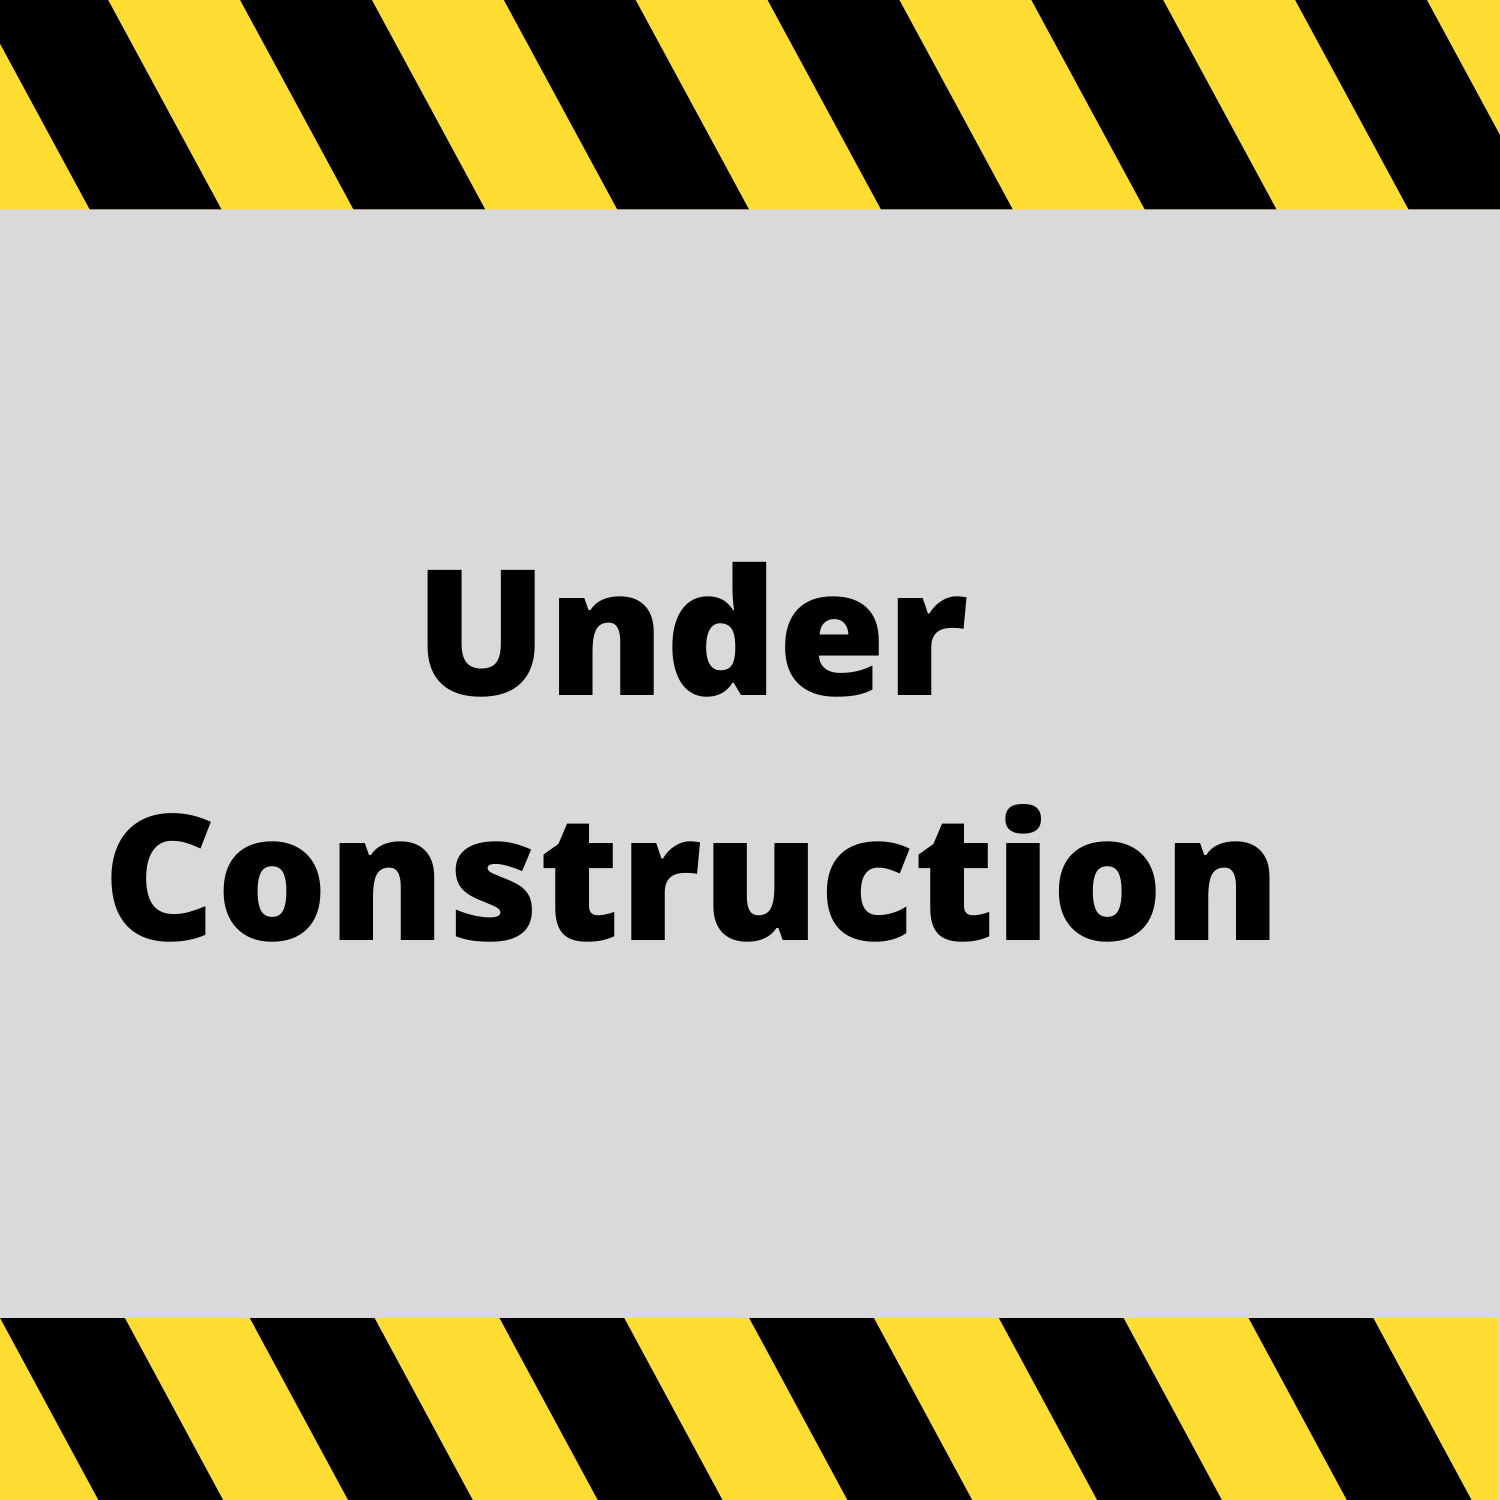
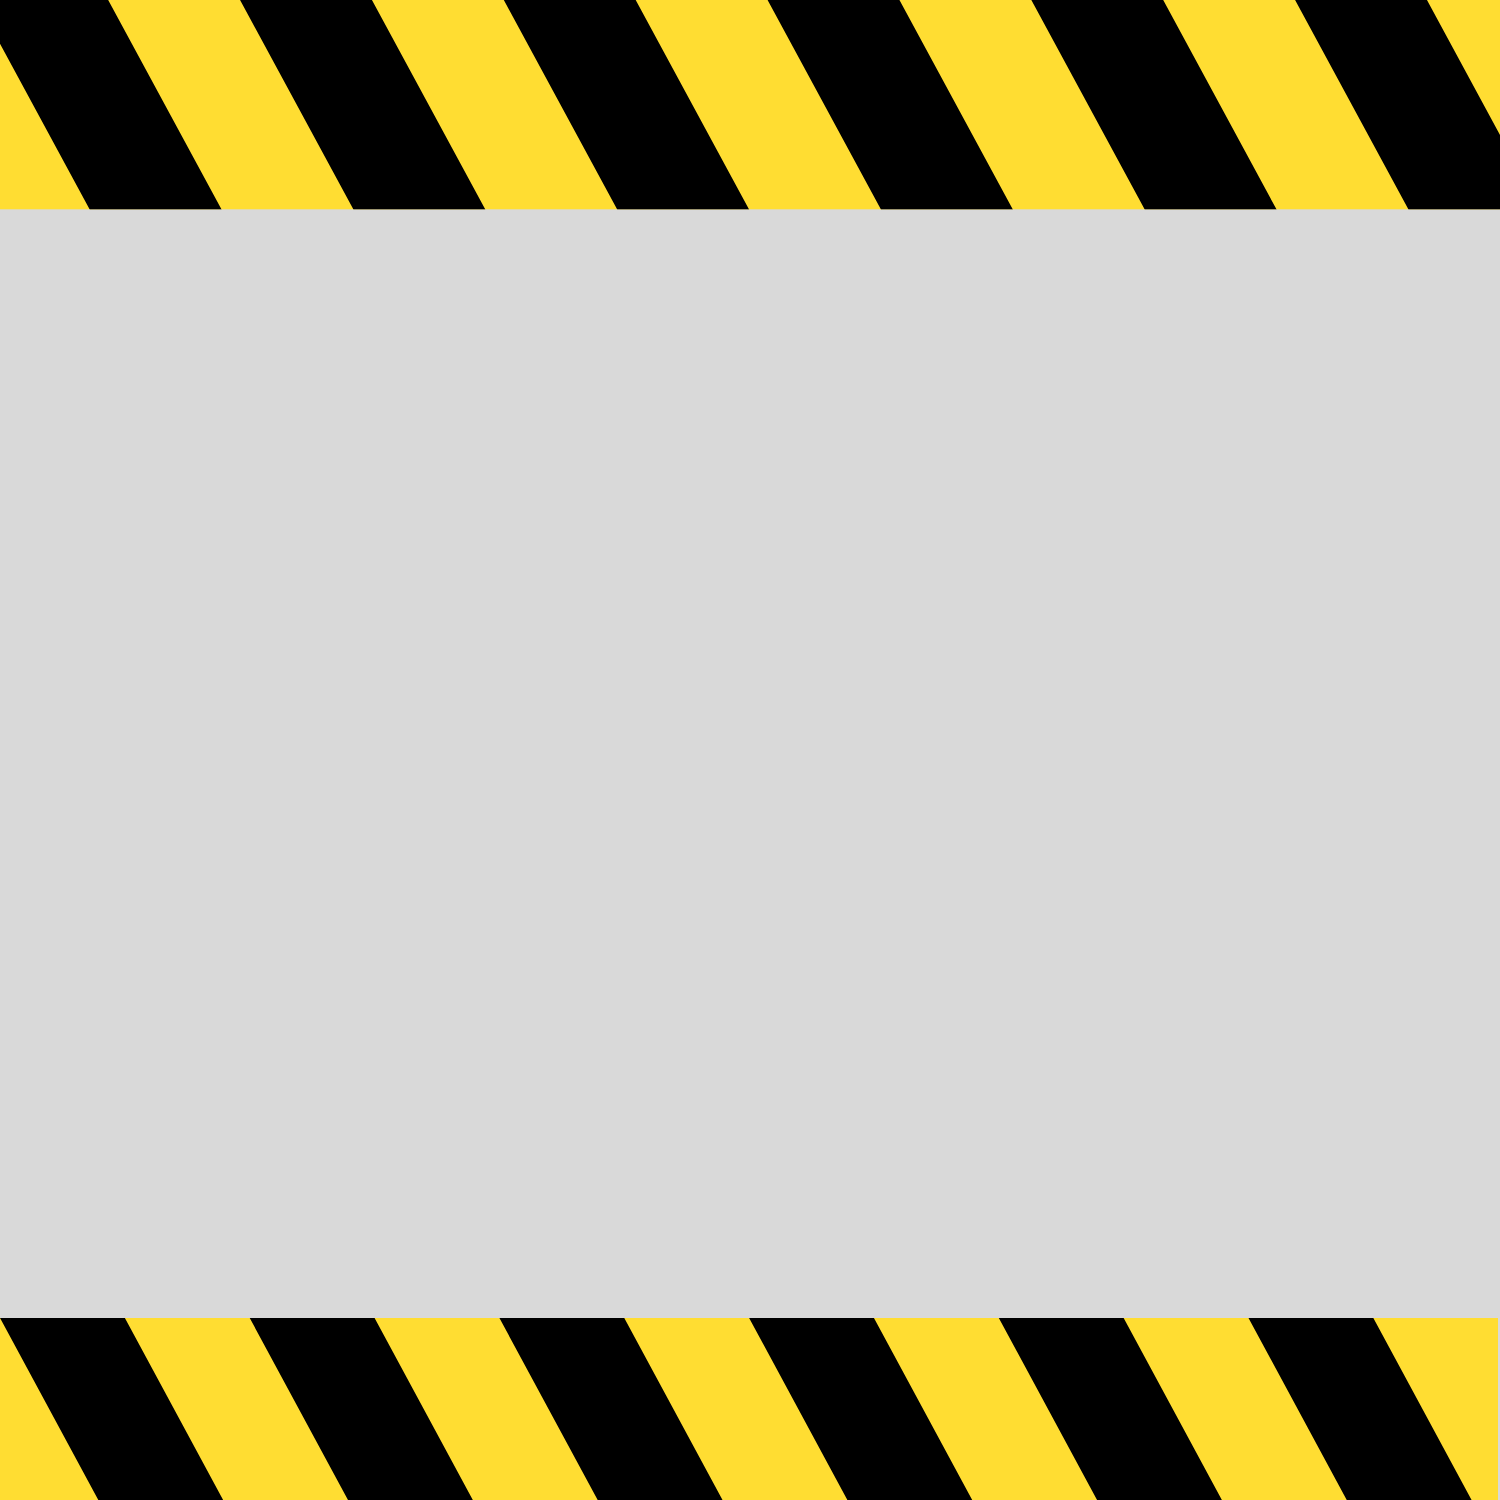
overhaul of work section, finishing touches on styles

Changed region(s): [[0.0613, 0.5213, 0.8587, 0.644], [0.276, 0.368, 0.644, 0.4907]]

diff --git a/assets/css/style.css b/assets/css/style.css
@@ -23,7 +23,7 @@ body {
     padding-bottom: 15px;
     text-align: center;
     margin: 15px auto;
-    width: 80%;
+    width: 70%;
   }
 
 
@@ -94,10 +94,10 @@ header nav ul {
     border-radius: 50%;
     margin: 25px;
     align-self: center;
-    max-width: 200px;
+    max-width: 250px;
     height: auto;
-    flex-shrink: 5;
     border: 5px inset var(--tertiary-color);
+    justify-content: center;
 }
 
 .about-text {
@@ -109,52 +109,83 @@ header nav ul {
 /* About Me end */
 
 /* Work start */
-
-#work img {
-    opacity: 60%;
+.work {
+    display: flex;
+    flex-wrap: wrap;
+    justify-content: space-around;
+    align-content: center;
 }
 
-#work img:hover {
-    opacity:100%;
-    box-shadow: 0 0 10px var(--glow-color);
+.work h3 {
+    z-index: 999;
+    color:var(--tertiary-color);
+    width: 35%;
+    font-size: 16px;
+    padding-top: 5px;
+    text-shadow: 2px 1px 2px var(--primary-color);
+    margin-top: 100px;
 }
 
-.main-app {
-    border-radius: 15px;
-    align-self: center;
-    max-width: 80%;
+.work h4 {
+    color: var(--tertiary-color);
+    width: 35%;
+    font-size: 10px;
+    padding-bottom: 5px;
+    margin-bottom: 75px;
+}
+
+
+.link {
+    z-index: 1;
+    text-decoration: none;
+}
+
+.preview {
+    background-size: cover;
+    background-position: top;
+    justify-content: center;
+    flex-wrap: wrap;
+    align-items: center;
+    margin: 1.5% auto;
     height: auto;
-    display: block;
-    margin: 15px auto;
+    border: 3px solid var(--secondary-color);
+    box-shadow: 0 0 10px rgba(0, 0, 0, 0.5);
+    opacity: 70%;
+}
+
+.preview:hover {
+    box-shadow: 0 0 10px var(--glow-color);
+    opacity: 100%;
+}
+
+.banner {
+    width: 35%;;
 }
 
 .secondary-apps {
-    /*
     display: flex;
-    align-content: space-between;
-    justify-content: center;
+    flex-direction: column;
+    width: 100%
+}
+
+
+#run-buddy {
+    background-image: url(../images/run-buddy.png);
     width: 80%;
-    */
-    width: 85%;
-    margin: 0 auto;
-    display: flex;
-    flex-wrap: wrap;
-    justify-content: space-between;
+    height: 300px;;
 }
 
-.secondary-app {
-    margin: 20px;
-    background: var(--secondary-color);
-    color: var(--primary-color);
-    flex: 1;
+#horiseon{
+    background-image: url(../images/horiseon.jpeg);
+    width: 80%;
+    height: 200px;
 }
 
-.secondary-app img {
-    width: 100%;
-    border-radius:15px;
+#robot-gladiators {
+    background-image: url(../images/under-construction.png);
+    width: 80%;
+    height: 200px;
 }
-
-
 /* Work end */
 
 /* Contact Me start */
@@ -165,15 +196,18 @@ header nav ul {
     width: 100%;
     text-align: left;
     align-items: center;
+    border-top: 2px solid var(--tertiary-color);
 }
 
 #contact h2 {
     border-bottom: 0px;
-    border-right: 3px solid var(--tertiary-color);
+    border-right: 3px outset var(--tertiary-color);
     flex: 3;
-    height:auto;
+    height: auto;
     text-align: right;
     padding-right: 10px;
+    padding-top: 10px;
+    margin: 0;
 }
 
 .contact-info {
@@ -183,7 +217,13 @@ header nav ul {
 
 /* Contact Me end */
 
-@media screen and (min-width: 768px) {
+.flex-row {
+    display: flex;
+}
+
+
+
+@media screen and (min-width: 800px) {
 header {
     position: -webkit-sticky;
     position: sticky;
@@ -202,5 +242,25 @@ header h1 {
     width: 50%;
     text-align: left;
 }
+
+.about-spacer {
+    width: 10%;
+}
+#about-me {
+    flex-direction: row;
+    justify-content: center;
+    align-content: center;
 }
 
+.secondary-apps {
+    flex-direction: row;
+    justify-content: center;
+    align-content: center;
+    width: 90%;
+}
+
+
+
+#horiseon, #robot-gladiators {
+    width: 40%;
+}

diff --git a/index.html b/index.html
@@ -14,7 +14,7 @@
     <h1>Drew Speed</h1>
     <nav>
         <ul>
-            <li><a href="#about-me">About Me</a></li>
+            <li><a href="#">About Me</a></li>
             <li><a href="#work">Work</a></li>
             <li><a href="#contact">Contact Me</a></li>
         </ul>
@@ -22,6 +22,7 @@
 </header>
 
 <section id="about-me">
+    <div class="about-spacer"></div>
     <img class="avatar" src="assets/images/drewspeed.jpeg" alt="a photo of me"/>
     <container class="about-text">
         <h2 class="section-title">About Me</h2>
@@ -30,27 +31,36 @@
             Modi dolore dolorem tenetur officia iste deserunt, harum cupiditate blanditiis neque dolorum eaque beatae totam ad perferendis. Atque laboriosam, dolores, minima eveniet tenetur impedit tempora ducimus deserunt voluptates culpa a?
             </p>
     </container>
+    <div class="about-spacer"></div>
 </section>
 
-<section id="work" claass="work">
-    <h2 class="section-title">Work</h2>
-    <container class="first-apps">
-        <a  href="https://drewspeed.github.io/run-buddy/">
-            <img class="main-app" src="assets/images/run-buddy.png" alt="a preview of the run buddy application"/>
-        </a>
-    </container>
-    <div class="secondary-apps">
-        <article class="secondary-app">
-            <a href="https://drewspeed.github.io/horiseon-landing-page/">
-                <img src="assets/images/horiseon.jpeg" alt="a preview of the horiseon application"/>
-            </a>
-        </article>
-        <article class="secondary-app in-progress">
-            <a href="#">
-                <img src="assets/images/under-construction.png" alt="this application is a work in progress"/>
-            </a>
-        </article>
+<section id="work">
+    <div class="flex-row">
+        <h2 class="section-title">Work</h2>
     </div>
+    <container class="work">
+        <a class="preview link" id="run-buddy" href="https://drewspeed.github.io/run-buddy/">
+            <div class="banner">
+                    <div class="link"></div>
+                    <h3>Run Buddy</h3>
+                    <h4>HTML/CSS</h4>               
+            </div>
+        </a>
+        <div class="secondary-apps">
+        <a class="preview link" id="horiseon" href="https://drewspeed.github.io/horiseon-landing-page/">
+            <div class="banner">
+                <h3>Horiseon</h3>
+                <h4>HTML/CSS</h4>
+            </div>
+        </a>
+        <a class="preview link" id="robot-gladiators" href="#">
+            <div class="banner">
+                <h3>Robot Gladiators (Under Construction)</h3>
+                <h4>JavaScript</h4>
+            </div>
+        </a>
+    </div>
+    </container>
 </section>
 
 <section id="contact">
